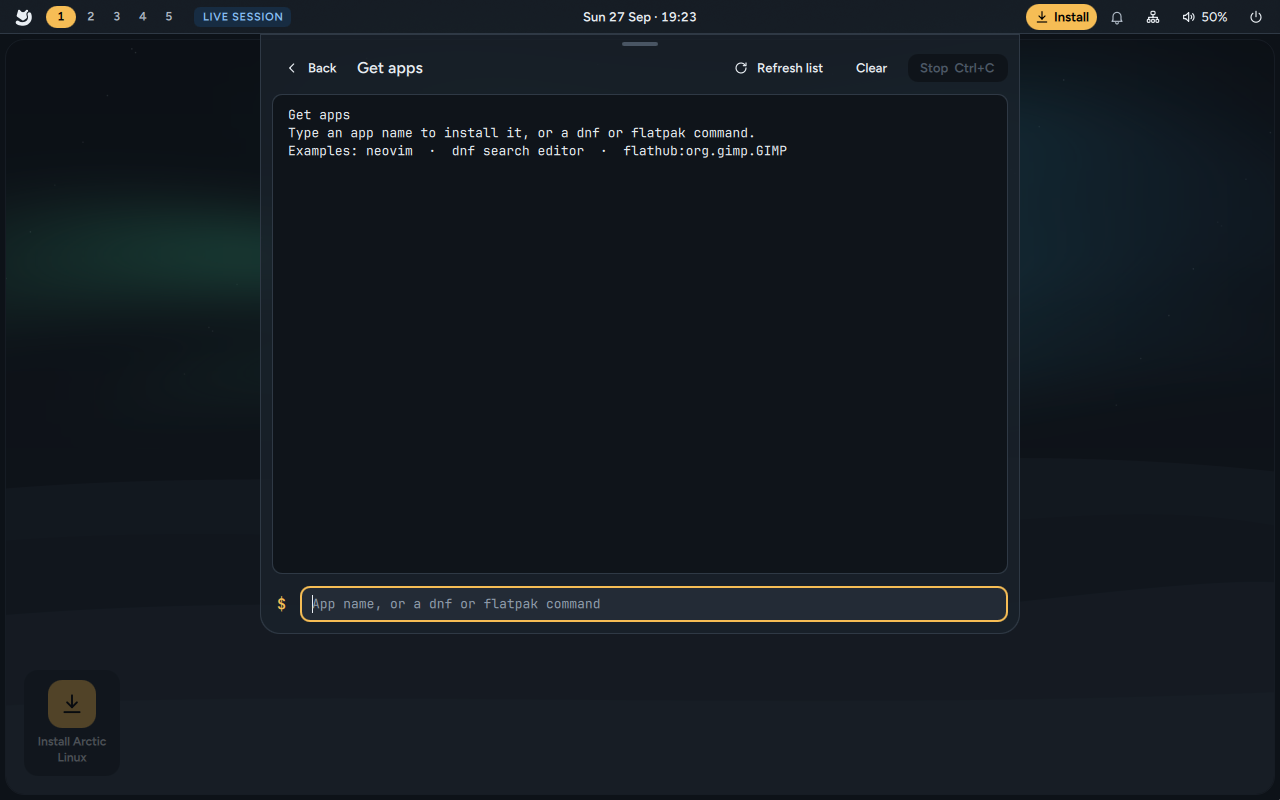
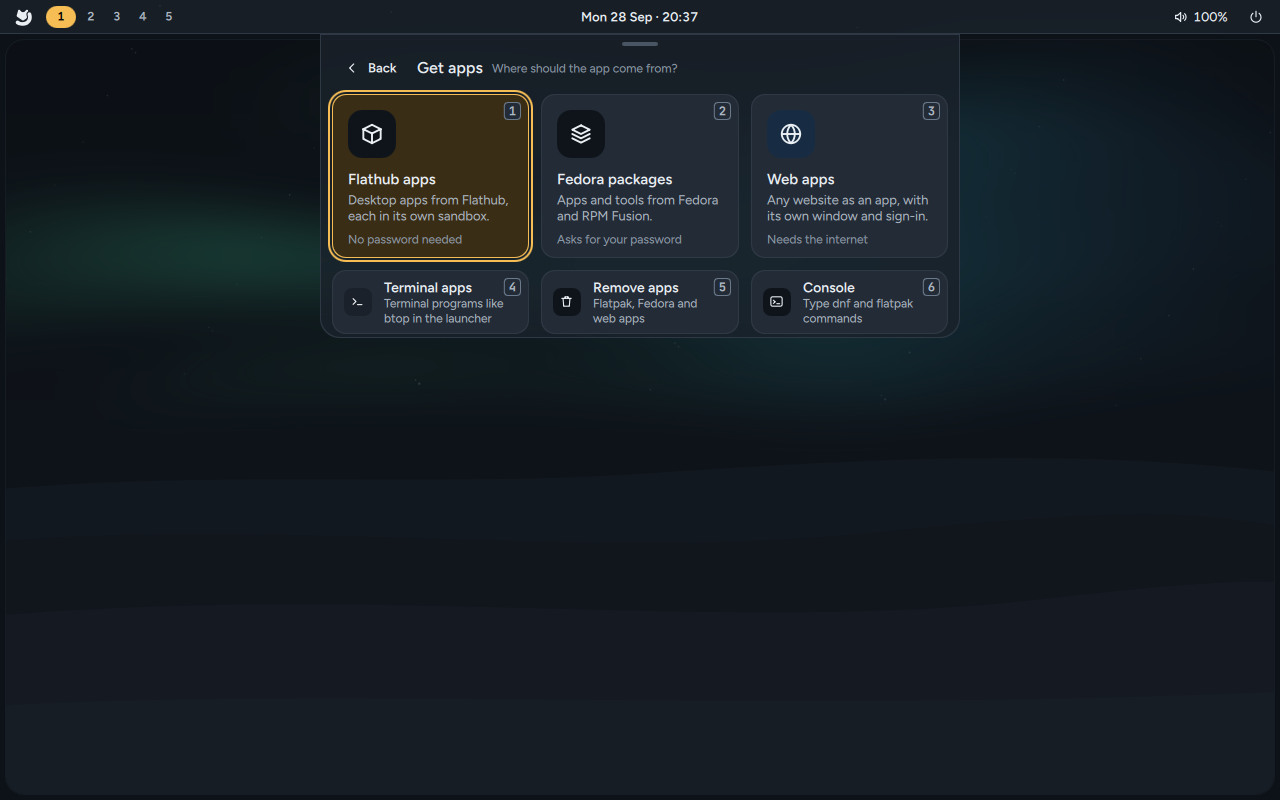
Shell: the chooser's small cards say what they do in full; reference screenshots
Claude-Session: https://claude.ai/code/session_01Wa33jyQ5qmWb5z2353WE8y

diff --git a/shell/getapps/GetApps.js b/shell/getapps/GetApps.js
@@ -19,11 +19,11 @@ function cards(state) {
         { page: 'web', title: 'Web apps', big: true, glyph: 'globe', tint: 'infoSoft',
           desc: 'Any website as an app, with its own window and sign-in.', status: 'Needs the internet' },
         { page: 'terminal', title: 'Terminal apps', big: false, glyph: 'prompt', tint: 'slate900',
-          desc: 'Put a terminal program like btop in the launcher.', short: 'btop and other terminal programs' },
+          desc: 'Put a terminal program like btop in the launcher.', short: 'Terminal programs like btop in the launcher' },
         { page: 'remove', title: 'Remove apps', big: false, glyph: 'trash', tint: 'surfaceSunken',
           desc: 'Uninstall Flatpak apps, Fedora packages and web apps.', short: 'Flatpak, Fedora and web apps' },
         { page: 'console', title: 'Console', big: false, glyph: 'terminal', tint: 'surfaceSunken',
-          desc: 'Type dnf and flatpak commands.', short: 'dnf and flatpak commands' },
+          desc: 'Type dnf and flatpak commands.', short: 'Type dnf and flatpak commands' },
     ];
     return list.filter(c => !(c.page === 'web' && !s.webapp) && !(c.page === 'remove' && s.live))
                .map((c, i) => Object.assign({ digit: i + 1 }, c));

diff --git a/shell/getapps/ChooserPage.qml b/shell/getapps/ChooserPage.qml
@@ -130,6 +130,8 @@ FocusScope {
                     color: Theme.inkMuted
                     font.family: Theme.fontSans
                     font.pixelSize: 12
+                    wrapMode: Text.Wrap
+                    maximumLineCount: 2
                     elide: Text.ElideRight
                 }
             }
@@ -177,7 +179,7 @@ FocusScope {
             rowSpacing: Theme.space3
             Repeater {
                 model: page.small
-                delegate: Card { offset: page.big.length; Layout.fillWidth: true; Layout.preferredWidth: 1; implicitHeight: 56 }
+                delegate: Card { offset: page.big.length; Layout.fillWidth: true; Layout.preferredWidth: 1; implicitHeight: 64 }
             }
         }
         JobCard { Layout.fillWidth: true }
